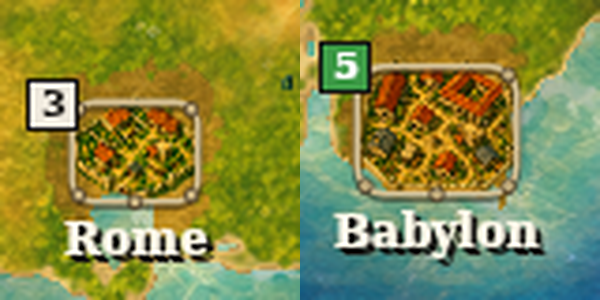
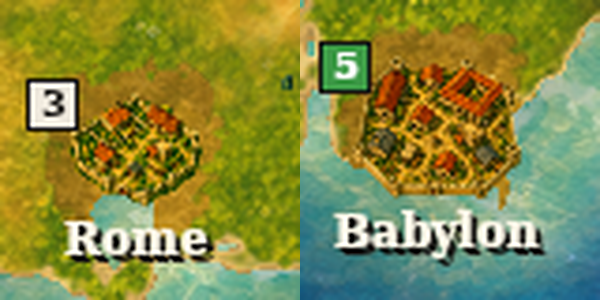
Walled towns show their own painted walls instead of a drawn ring
The drawn stone ring clashed with the painting. The painted walls run round
each walled picture's edge, which the town's edge softening was eating away on
small towns; a walled picture's outline is now softened only lightly and its
edge band kept solid, so the painted walls, towers and gates show.

Claude-Session: https://claude.ai/code/session_01GQr8nXbNR6oD4muVyMvrXV

diff --git a/src/Graphics/TopView.cs b/src/Graphics/TopView.cs
@@ -223,7 +223,7 @@ namespace OpenCivOne.Graphics
 					if (raw == null)
 						continue;
 
-					using SKBitmap soft = SoftTown(raw);
+					using SKBitmap soft = SoftTown(raw, w == 1 && step > 0);
 					float f = c * StepSize[step] / Math.Max(soft.Width, soft.Height);
 					view.towns[step, w] = Resize(soft, f);
 				}
@@ -524,11 +524,6 @@ namespace OpenCivOne.Graphics
 					tx = MathF.Round(x0 + ((c - tw) / 2));
 					ty = MathF.Round(y0 + ((c - th) / 2));
 					canvas.DrawBitmap(art, tx, ty, image);
-
-					// a small town's painted walls are a pixel wide at game size: a stone ring with corner towers in the
-					// walls' own colours makes them read, as the larger towns' do
-					if (walled && step <= 2)
-						this.DrawSmallWalls(canvas, tx, ty, tw, th);
 				}
 				else
 				{
@@ -624,31 +619,6 @@ namespace OpenCivOne.Graphics
 			System.Runtime.InteropServices.MemoryMarshal.Cast<byte, uint>(target.GetPixelSpan()).CopyTo(result);
 
 			return result;
-		}
-
-		private void DrawSmallWalls(SKCanvas canvas, float x, float y, float w, float h)
-		{
-			float u = this.cell / 64f, inset = 1.2f * u;
-			SKRect ring = new SKRect(x + inset, y + inset + (h * 0.04f), x + w - inset, y + h - inset);
-			float r = MathF.Min(ring.Width, ring.Height) * 0.22f;
-			using SKPaint shadow = new SKPaint { IsAntialias = true, Style = SKPaintStyle.Stroke, StrokeWidth = 2.8f * u, Color = new SKColor(40, 30, 18, 120) };
-			using SKPaint stone = new SKPaint { IsAntialias = true, Style = SKPaintStyle.Stroke, StrokeWidth = 1.6f * u, Color = new SKColor(204, 182, 136) };
-			using SKPaint top = new SKPaint { IsAntialias = true, Style = SKPaintStyle.Stroke, StrokeWidth = 0.6f * u, Color = new SKColor(238, 224, 186, 170) };
-			canvas.DrawRoundRect(new SKRect(ring.Left, ring.Top + (0.8f * u), ring.Right, ring.Bottom + (0.8f * u)), r, r, shadow);
-			canvas.DrawRoundRect(ring, r, r, stone);
-			canvas.DrawRoundRect(new SKRect(ring.Left, ring.Top - (0.4f * u), ring.Right, ring.Bottom - (0.4f * u)), r, r, top);
-
-			using SKPaint tower = new SKPaint { IsAntialias = true, Color = new SKColor(198, 176, 128) };
-			using SKPaint towerShadow = new SKPaint { IsAntialias = true, Color = new SKColor(40, 30, 18, 120) };
-			using SKPaint ink = new SKPaint { IsAntialias = true, Style = SKPaintStyle.Stroke, StrokeWidth = 0.6f * u, Color = new SKColor(60, 44, 28) };
-			float t = 1.8f * u, k = r * 0.3f;
-
-			foreach ((float tx, float ty) in new[] { (ring.Left + k, ring.Top + k), (ring.Right - k, ring.Top + k), (ring.Left + k, ring.Bottom - k), (ring.Right - k, ring.Bottom - k), (ring.MidX, ring.Bottom) })
-			{
-				canvas.DrawCircle(tx, ty + (0.6f * u), t, towerShadow);
-				canvas.DrawCircle(tx, ty, t, tower);
-				canvas.DrawCircle(tx, ty, t, ink);
-			}
 		}
 
 		private void DrawUnit(SKCanvas canvas, UnitArt art, float x0, float y0, uint colour, int marks, bool ring,
@@ -1052,7 +1022,7 @@ namespace OpenCivOne.Graphics
 		/// magenta spill, its own ground (gardens, earth) letting the terrain show through, and more contrast and colour
 		/// than the generated painting has, so it reads at game size
 		/// </summary>
-		private static SKBitmap SoftTown(SKBitmap t)
+		private static SKBitmap SoftTown(SKBitmap t, bool walls = false)
 		{
 			int w = t.Width, h = t.Height, n = w * h;
 			float[] r = new float[n], g = new float[n], b = new float[n], a = new float[n];
@@ -1099,7 +1069,8 @@ namespace OpenCivOne.Graphics
 				}
 			}
 
-			float[] soft = Blur(Erode(a, w, h, 3), w, h, 6);
+			// a walled town's walls run round its very edge: its outline is only lightly softened, so they stay
+			float[] soft = walls ? Blur(Erode(a, w, h, 1), w, h, 1.5f) : Blur(Erode(a, w, h, 3), w, h, 6);
 			float[] built = new float[n];
 
 			for (int i = 0; i < n; i++)
@@ -1107,6 +1078,16 @@ namespace OpenCivOne.Graphics
 				a[i] = MathF.Min(a[i], soft[i]);
 				float bright = (r[i] + g[i] + b[i]) / 3, sat = MathF.Max(r[i], MathF.Max(g[i], b[i])) - MathF.Min(r[i], MathF.Min(g[i], b[i]));
 				built[i] = (((r[i] > g[i] * 1.3f) && (r[i] > 110)) || ((bright > 165) && (sat < 70)) || (bright < 60)) ? 255 : 0;
+			}
+
+			// and the band along its edge, where the walls stand, stays solid whatever its colour
+			if (walls)
+			{
+				float[] inner = Erode(a, w, h, Math.Max(4, w / 28));
+
+				for (int i = 0; i < n; i++)
+					if (a[i] > 128 && inner[i] < 128)
+						built[i] = 255;
 			}
 
 			built = Blur(Dilate(built, w, h, 2), w, h, 2);

diff --git a/themes/gouache/preview/topview/README.md b/themes/gouache/preview/topview/README.md
@@ -35,7 +35,8 @@ The gouache set has nine units and no huts or resources of its own. The other 19
 | `15_city_screen_size9_2x.png` | Rome's city screen at size 9: the walled town at the centre of its small map. The size badge is left out there, since the title gives the population and the worked-tile icons would cover it. |
 | `16_after_city_screen.jpg` | Back on the map after closing the city screen, nothing left over from it. |
 | `17_ingame_sizes_2_to_8.jpg` | In game, every step of the ladder between hamlet and city: Rome at 2, 3 (walled) and 7; Babylon at 4, 5 (walled) and 8 (walled). |
-| `18_ingame_small_walled_towns.png` | Small walled towns (sizes 3 and 5) with their stone ring and corner towers. |
+| `18_ingame_small_walled_towns.png` | Small walled towns in game (sizes 3 and 5): their own painted walls. |
+| `22_walled_towns_sizes_3_to_14.png` | Walled towns from size 3 to 14 (harness): the painted walls at every step. |
 | `19_ingame_babylon_captured.jpg`, `20_ingame_captured_city_screen.jpg` | A Roman legion captures Babylon at size 3: the town keeps its picture and clearing and changes to a white Roman badge at size 2; its city screen shows the nearby Babylonian units in green. |
 | `21_sea_battle_frames_harness.png` | A battle at sea: a red trireme attacks a blue sailing ship and loses, greying and fading under smoke on the water. |
 
@@ -59,7 +60,7 @@ Each element on the map, judged against `compose.py`'s renders and checked in th
 | --- | --- |
 | Painted ground, coasts, rivers, moving water | Unchanged painted map; shows between all objects. |
 | Towns, sizes 1 to 13 | Right ladder picture for each size, in a clearing scaled to the town (`17`, `13`). |
-| Walled towns | Walled pictures at every step; at sizes 2 to 5 the painted walls are a pixel wide, so a stone ring with corner towers in the walls' colours is drawn over them (`18`). This is the one place the game draws more than `compose.py` does. |
+| Walled towns | Walled pictures at every step. The walls run round each picture's very edge, which `compose.py`'s edge softening eats away on small towns, so a walled picture's outline is softened only lightly and its edge band stays solid: the painted walls, towers and gates show from size 2 up (`18`, `22`). On the smallest walled town (sizes 2 and 3) the painted wall is a low thin one. |
 | Size badge and name | Same size, place and type as the renders, in each player's colour; white Roman badges read on all grounds. |
 | The nine gouache units | Same scale, anchors and bases as the renders, in all eight player colours. |
 | The other 19 units | Default painted set, toned and sized by kind; they sit on bases like the gouache units (`02`). Their painting is a little crisper than gouache, the one remaining style difference, until gouache versions are painted. |
